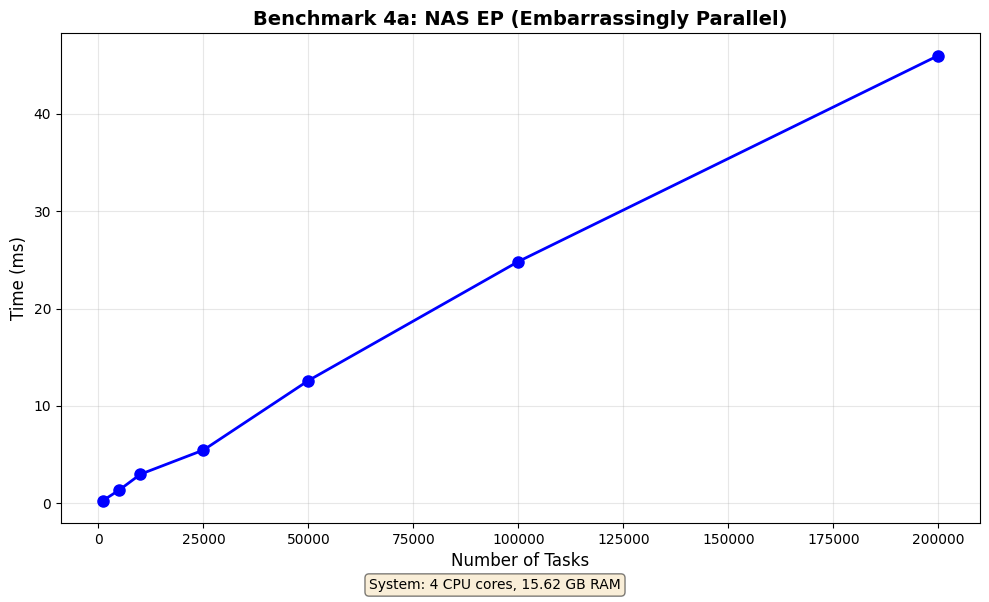
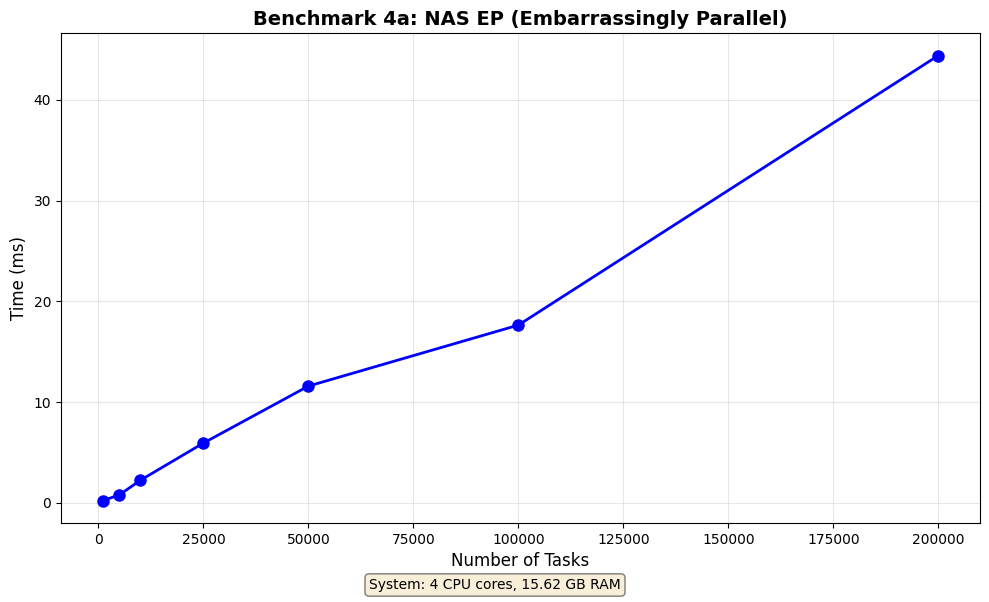
Address code review feedback and regenerate performance graphs

diff --git a/src/worker.rs b/src/worker.rs
@@ -65,11 +65,20 @@ impl Worker {
             // Try to get a job from the local queue first
             let job = local_queue.pop().or_else(|| {
                 // If local queue is empty, try to steal from the global injector
+                let mut retry_count = 0;
+                const MAX_RETRIES: usize = 3;
+                
                 loop {
                     match injector.steal_batch_and_pop(&local_queue) {
                         crossbeam::deque::Steal::Success(job) => return Some(job),
                         crossbeam::deque::Steal::Empty => break,
-                        crossbeam::deque::Steal::Retry => continue,
+                        crossbeam::deque::Steal::Retry => {
+                            retry_count += 1;
+                            if retry_count >= MAX_RETRIES {
+                                std::thread::yield_now();
+                                break;
+                            }
+                        }
                     }
                 }
 
@@ -164,17 +173,15 @@ impl WorkerPool {
     }
 
     /// Submits a single job to the global injector.
-    pub fn submit(&self, job: Job) -> Result<(), String> {
+    pub fn submit(&self, job: Job) {
         self.injector.push(job);
-        Ok(())
     }
 
     /// Submits multiple jobs in a batch to reduce contention.
-    pub fn submit_batch(&self, jobs: Vec<Job>) -> Result<(), String> {
+    pub fn submit_batch(&self, jobs: Vec<Job>) {
         for job in jobs {
             self.injector.push(job);
         }
-        Ok(())
     }
 
     /// Returns the number of worker threads in the pool.
@@ -243,7 +250,7 @@ mod tests {
             let job = Job::new(move || {
                 counter_clone.fetch_add(1, Ordering::SeqCst);
             });
-            pool.submit(job).unwrap();
+            pool.submit(job);
         }
 
         // Wait a bit for jobs to complete
@@ -266,7 +273,7 @@ mod tests {
                 },
                 counter_clone,
             );
-            pool.submit(job).unwrap();
+            pool.submit(job);
         }
 
         // Wait for jobs to complete
@@ -293,7 +300,7 @@ mod tests {
             }));
         }
 
-        pool.submit_batch(jobs).unwrap();
+        pool.submit_batch(jobs);
 
         // Wait for jobs to complete
         thread::sleep(Duration::from_millis(200));
@@ -313,7 +320,7 @@ mod tests {
             let job = Job::new(move || {
                 counter_clone.fetch_add(1, Ordering::SeqCst);
             });
-            pool.submit(job).unwrap();
+            pool.submit(job);
         }
 
         // Wait a bit for jobs to complete
@@ -348,7 +355,7 @@ mod tests {
                     thread::sleep(Duration::from_micros(100));
                 }
             });
-            pool.submit(job).unwrap();
+            pool.submit(job);
         }
 
         // Wait for all jobs to complete

diff --git a/src/benchmarks/producer_consumer.rs b/src/benchmarks/producer_consumer.rs
@@ -5,6 +5,11 @@ use std::sync::atomic::{AtomicUsize, Ordering};
 use std::time::Instant;
 use crate::utils::{BenchmarkResult, DataPoint, SystemInfo, num_cpus};
 
+/// Batch size for producer job submissions to reduce lock contention.
+/// Based on benchmark analysis, batching 32 items at a time provides
+/// a good balance between lock overhead reduction and memory locality.
+const PRODUCER_BATCH_SIZE: usize = 32;
+
 pub fn run_producer_consumer_benchmark() -> BenchmarkResult {
     eprintln!("\n=== Benchmark 3: Producer-Consumer Stress Test ===");
     
@@ -31,7 +36,7 @@ pub fn run_producer_consumer_benchmark() -> BenchmarkResult {
         
         let start = Instant::now();
         
-        // Create producer jobs
+        // Create producer jobs with batching to reduce lock contention
         let num_producers = num_cpus() / 2;
         let items_per_producer = num_items / num_producers;
         
@@ -41,11 +46,21 @@ pub fn run_producer_consumer_benchmark() -> BenchmarkResult {
             let produced_clone = produced.clone();
             
             producer_jobs.push(Box::new(move || {
+                // Process items in batches to reduce lock overhead
+                let mut batch = Vec::with_capacity(PRODUCER_BATCH_SIZE);
                 for i in 0..items_per_producer {
-                    let mut q = queue_clone.lock().unwrap();
-                    q.push_back(i);
-                    drop(q); // Release lock
-                    produced_clone.fetch_add(1, Ordering::SeqCst);
+                    batch.push(i);
+                    
+                    if batch.len() >= PRODUCER_BATCH_SIZE || i == items_per_producer - 1 {
+                        // Push batch to queue with single lock acquisition
+                        let count = batch.len();
+                        let mut q = queue_clone.lock().unwrap();
+                        for item in batch.drain(..) {
+                            q.push_back(item);
+                        }
+                        drop(q);
+                        produced_clone.fetch_add(count, Ordering::SeqCst);
+                    }
                 }
             }));
         }

diff --git a/src/job_system.rs b/src/job_system.rs
@@ -108,7 +108,7 @@ impl JobSystem {
 
         let job = Job::with_counter(work, counter_clone);
 
-        self.worker_pool.submit(job).expect("Failed to submit job");
+        self.worker_pool.submit(job);
 
         counter
     }
@@ -149,9 +149,7 @@ impl JobSystem {
             })
             .collect();
 
-        self.worker_pool
-            .submit_batch(job_objs)
-            .expect("Failed to submit batch");
+        self.worker_pool.submit_batch(job_objs);
 
         counter
     }
